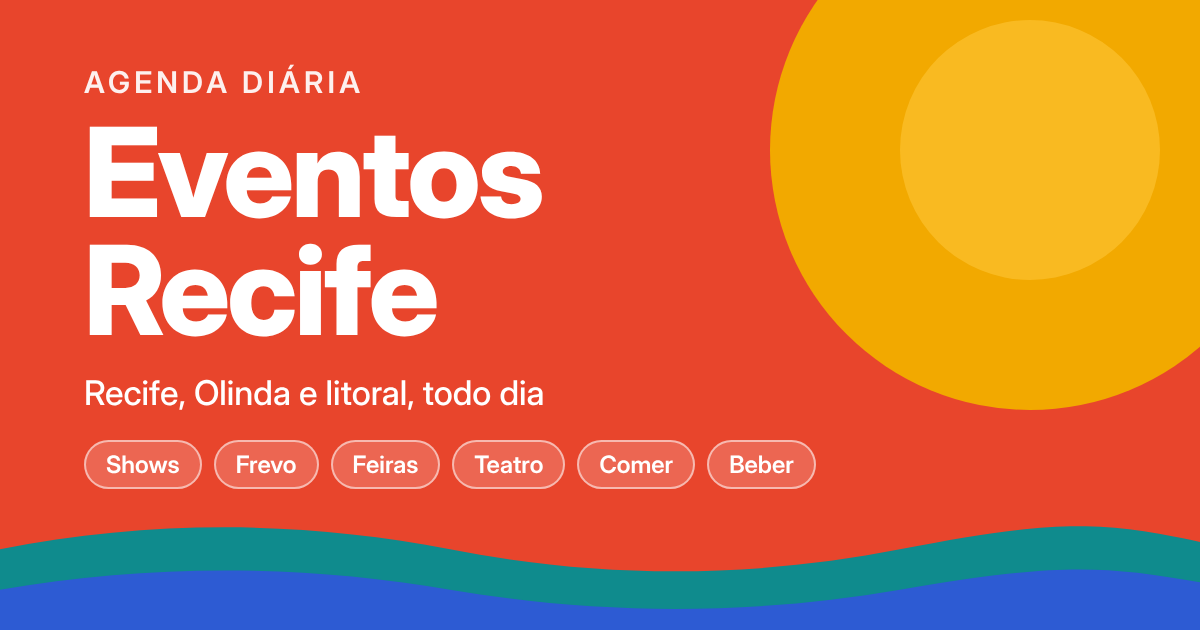
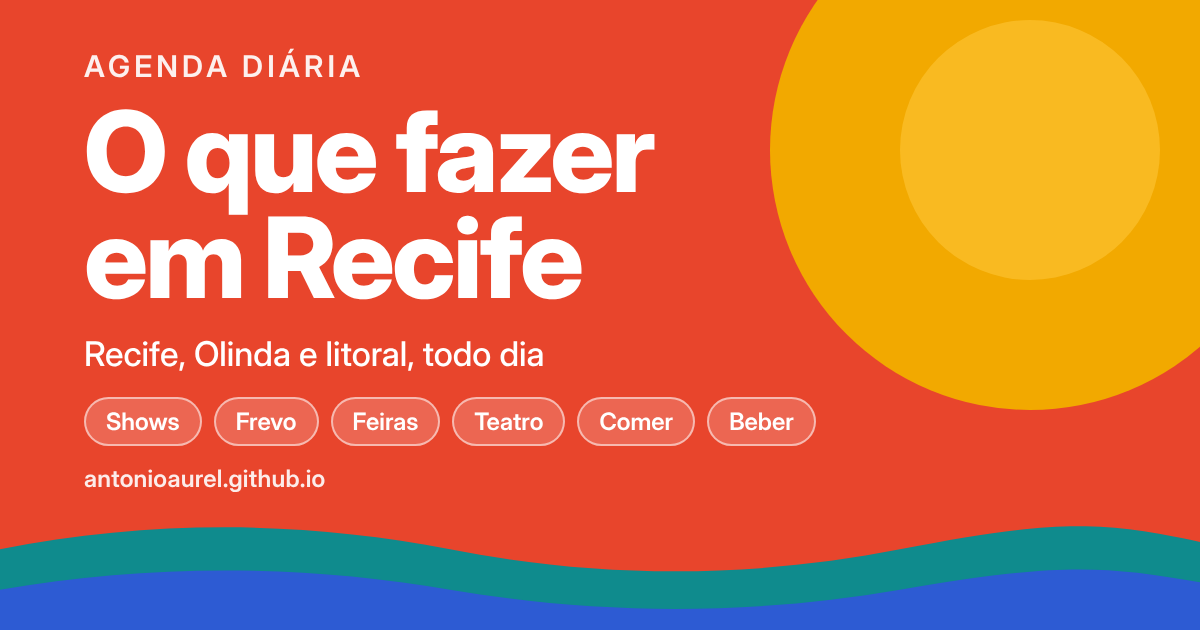
Prévia 'O que fazer em Recife' e link para antonioaurel.github.io
Claude-Session: https://claude.ai/code/session_01QKZ2zH3ZGXvKeASfwj4nDu

Changed region(s): [[0.0617, 0.0905, 0.6783, 0.7841]]

diff --git a/index.html b/index.html
@@ -3,23 +3,23 @@
 <head>
 <meta charset="utf-8">
 <meta name="viewport" content="width=device-width, initial-scale=1">
-<title>Eventos Recife – agenda do dia</title>
+<title>O que fazer em Recife</title>
 <meta name="description" content="Agenda diária do Recife, Olinda e litoral: shows, frevo e prévias, feiras, teatro, o que fazer, onde comer, tomar café e beber.">
 <meta name="theme-color" content="#E8452C">
 <meta property="og:type" content="website">
 <meta property="og:locale" content="pt_BR">
 <meta property="og:site_name" content="Eventos Recife">
-<meta property="og:title" content="Eventos Recife – agenda do dia">
+<meta property="og:title" content="O que fazer em Recife">
 <meta property="og:description" content="Shows, frevo, feiras, teatro, onde comer e beber no Recife, Olinda e litoral. Atualizado todo dia.">
 <meta property="og:url" content="https://antonioaurel.github.io/recife-events/">
-<meta property="og:image" content="https://antonioaurel.github.io/recife-events/og.png">
+<meta property="og:image" content="https://antonioaurel.github.io/recife-events/og.png?v=2">
 <meta property="og:image:width" content="1200">
 <meta property="og:image:height" content="630">
 <meta property="og:image:alt" content="Eventos Recife">
 <meta name="twitter:card" content="summary_large_image">
-<meta name="twitter:title" content="Eventos Recife – agenda do dia">
+<meta name="twitter:title" content="O que fazer em Recife">
 <meta name="twitter:description" content="Shows, frevo, feiras, teatro, onde comer e beber no Recife, Olinda e litoral.">
-<meta name="twitter:image" content="https://antonioaurel.github.io/recife-events/og.png">
+<meta name="twitter:image" content="https://antonioaurel.github.io/recife-events/og.png?v=2">
 <link rel="icon" href="favicon.svg" type="image/svg+xml">
 <link rel="apple-touch-icon" href="icon-180.png">
 <link rel="preconnect" href="https://fonts.googleapis.com">
@@ -46,6 +46,8 @@ html, body { margin: 0; background: var(--color-bg); color: var(--color-fg); }
 body { padding: 16px clamp(12px, 3vw, 32px) 40px; font-family: var(--font-anthropic-sans); font-size: var(--cds-font-size-body); line-height: 1.45; -webkit-text-size-adjust: 100%; }
 .dash-skeleton { opacity: .45; }
 a { color: inherit; }
+.ag-me { display: inline-block; font-size: var(--cds-font-size-caption); color: var(--color-fg-muted); text-decoration: none; margin: -2px 0 var(--cds-gap-sm); }
+.ag-me:hover { color: var(--ag-coral); text-decoration: underline; }
 </style>
 <script>
 window.dash = (() => {
@@ -163,7 +165,7 @@ window.d3 = { format: () => (x) => Number(x).toLocaleString('pt-BR') };
 <div class="ag">
   <header class="ag-head" id="topo">
     <div class="ag-top">
-      <h1>Eventos Recife</h1>
+      <div><h1>Eventos Recife</h1><a class="ag-me" href="https://antonioaurel.github.io/">antonioaurel.github.io</a></div>
       <div class="ag-theme" role="group" aria-label="Fundo da tela">
         <button type="button" data-theme-set="auto" aria-pressed="true">Automático</button>
         <button type="button" data-theme-set="claro" aria-pressed="false">☀ Claro</button>
